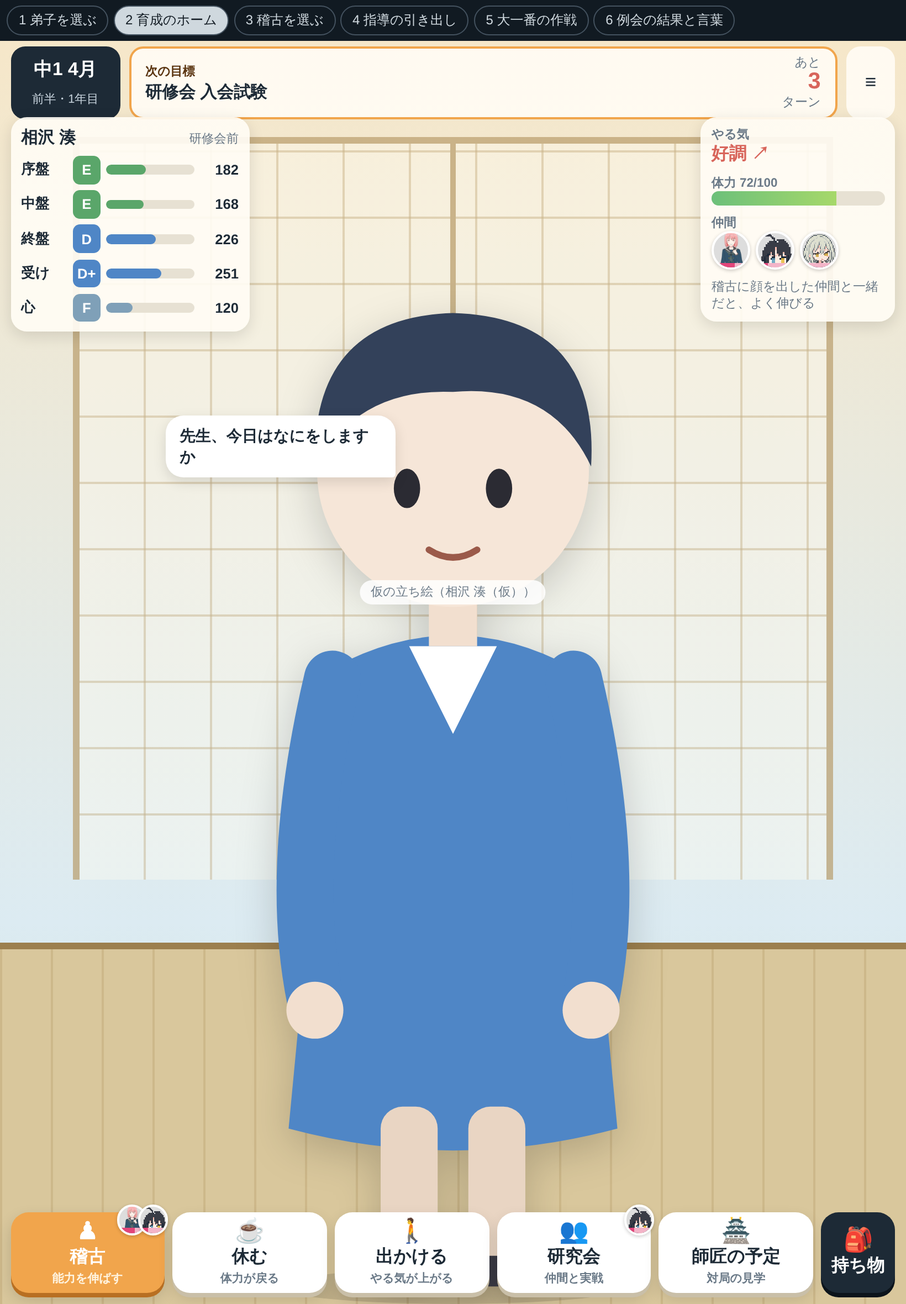
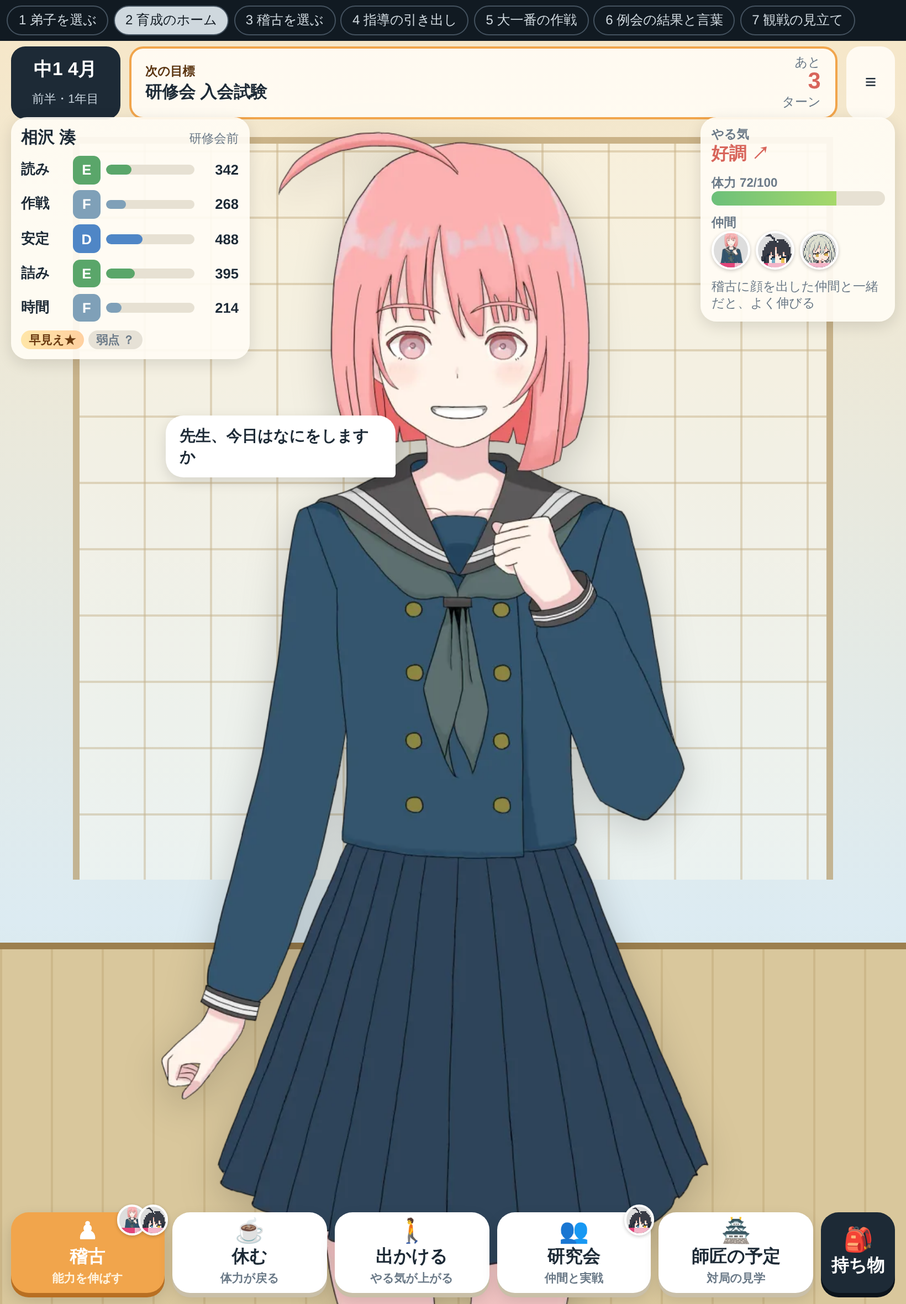
docs: 師匠の1年の能力値・スキル・観戦の見立てを設計し直す。
- 能力値を読み・作戦・安定・詰み・時間の5つにし、それぞれ今のCPUのつまみ(探索量・作戦の選び方と大局観・ぶれと見落とし・詰み・時間の配り方)を別のLvで引く(D:4-8 どれぐらい良いことをした？)
- 個性は作戦熟練度・スキル15(藤井曲線が最強)・隠れた弱点(D:4-7 個性はとがらせる・D:8-1)
- 観戦すると、形勢が落ちた場面の理由を5択で見抜き、狙い目の稽古と弱点の名前が手に入る。見なくても勝ちやすさは同じ(D:3-1・D:6-1)
- 観戦する局はエンジンで本当に指し、しない局は強さの差で決める
- モックアップの立ち絵を百花の立ち絵(仮)にし、観戦の見立ての画面を足した
- 設計は19章

Claude-Session: https://claude.ai/code/session_01CSNAKJWwLor7hKy3TRq9Wu

diff --git a/docs/disciple-mode/mock.html b/docs/disciple-mode/mock.html
@@ -7,7 +7,7 @@
 <!--
   師匠の1年(docs/disciple-mode-design.md)の画面の見本。動く部分は見本のための最小限。
   立ち絵を真ん中に大きく置き、UIはその上に重ねる(育成シミュレーションの型。17章のユーザーの指定)。
-  弟子の絵はまだないので、仮の影絵(SVG)で置いている。
+  弟子の絵はまだないので、百花の立ち絵を仮に使っている(19-9)。
   上の「画面」の帯は見本の切り替えで、本物の画面には出ない。?s=home などで直接開ける。
 -->
 <style>
@@ -41,9 +41,9 @@ button { font: inherit; color: inherit; cursor: pointer; }
 .screen.on { display: block; }
 
 /* ---- 立ち絵(真ん中に大きく) */
-.figure { position: absolute; z-index: 1; left: 50%; bottom: 0; height: min(92%, 62rem); aspect-ratio: 0.46; transform: translateX(-50%); pointer-events: none; }
-.figure svg { width: 100%; height: 100%; display: block; filter: drop-shadow(0 10px 18px rgba(0, 0, 0, 0.18)); }
-.figure .tag { position: absolute; left: 50%; top: 34%; transform: translateX(-50%); padding: 0.2rem 0.6rem; border-radius: 999px; background: rgba(255,255,255,0.85); color: var(--muted); font-size: 0.7rem; white-space: nowrap; }
+.figure { position: absolute; z-index: 1; left: 50%; top: 5%; height: 150%; aspect-ratio: 0.344; transform: translateX(-50%); pointer-events: none; }
+.figure img { width: 100%; height: 100%; display: block; object-fit: contain; object-position: 50% 0; filter: drop-shadow(0 10px 18px rgba(0, 0, 0, 0.18)); }
+.figure .tag { position: absolute; left: 50%; top: 21%; transform: translateX(-50%); padding: 0.2rem 0.6rem; border-radius: 999px; background: rgba(255,255,255,0.85); color: var(--muted); font-size: 0.7rem; white-space: nowrap; }
 .figure.bounce { animation: bounce 0.5s ease; }
 @keyframes bounce { 30% { transform: translateX(-50%) translateY(-10px); } 60% { transform: translateX(-50%) translateY(0); } }
 
@@ -71,6 +71,12 @@ button { font: inherit; color: inherit; cursor: pointer; }
 .stats h3 { margin: 0 0 0.1rem; font-size: 0.72rem; color: var(--muted); }
 .stats .who { display: flex; justify-content: space-between; align-items: baseline; }
 .stats .who b { font-size: 0.95rem; } .stats .who small { color: var(--muted); font-size: 0.7rem; }
+
+/* ---- スキルの札 */
+.skills { display: flex; flex-wrap: wrap; gap: 0.25rem; margin-top: 0.15rem; }
+.skill { padding: 0.08rem 0.45rem; border-radius: 999px; background: linear-gradient(90deg, #ffe6a8, #ffd0a0); color: #6a3a10; font-size: 0.66rem; font-weight: 900; }
+.skill--hidden { background: #e6e1d6; color: var(--muted); }
+.tr .aim { position: absolute; top: 0.3rem; right: 0.4rem; padding: 0 0.35rem; border-radius: 999px; background: #e2457a; color: #fff; font-size: 0.58rem; }
 
 /* ---- 右のやる気・体力 */
 .mood { position: absolute; z-index: 5; right: 0.6rem; top: 4.6rem; width: 11rem; display: grid; gap: 0.5rem; padding: 0.55rem 0.6rem; border-radius: 0.9rem; background: var(--panel); box-shadow: 0 4px 14px rgba(0,0,0,0.12); }
@@ -204,9 +210,41 @@ button { font: inherit; color: inherit; cursor: pointer; }
 .pc b { display: block; font-size: 0.88rem; } .pc small { color: var(--muted); font-size: 0.7rem; }
 .pick-go { position: absolute; z-index: 6; right: 0.6rem; bottom: 0.6rem; min-width: 12rem; min-height: 3.6rem; border: 0; border-radius: 1rem; background: var(--accent); color: #fff; font-size: 1.05rem; font-weight: 900; box-shadow: 0 4px 0 #b86f22; }
 
+/* ---- 観戦の見立て */
+.watch { position: absolute; inset: 0; z-index: 4; display: grid; grid-template-columns: minmax(0, 1fr) 19rem; grid-template-rows: auto minmax(0, 1fr) auto; gap: 0.5rem; padding: 0.6rem; background: rgba(28, 38, 48, 0.94); color: #fff; }
+.watch .head { grid-column: 1 / -1; display: flex; align-items: center; gap: 0.6rem; }
+.watch .head b { font-size: 1rem; } .watch .head small { color: #b8c6d2; }
+.watch .speed { margin-left: auto; display: flex; gap: 0.3rem; }
+.watch .speed button { min-height: 2.4rem; padding: 0 0.7rem; border: 1px solid #50606e; border-radius: 0.6rem; background: transparent; color: #fff; font-weight: 800; }
+.boardbox { display: grid; place-items: center; min-height: 0; }
+.ban { position: relative; height: 100%; max-height: 30rem; aspect-ratio: 1; background: #e3bd74; border: 3px solid #7a5426; display: grid; grid-template-columns: repeat(9, 1fr); grid-template-rows: repeat(9, 1fr); }
+.ban i { border: 1px solid rgba(80, 50, 20, 0.45); display: grid; place-items: center; color: #2a1a0a; font-style: normal; font-weight: 900; font-size: clamp(0.6rem, 2.2vh, 1.1rem); }
+.ban i.ring { box-shadow: inset 0 0 0 3px #e0453a; border-radius: 50%; }
+.ban i.last { background: rgba(90, 166, 106, 0.45); }
+.clock { position: absolute; padding: 0.15rem 0.5rem; border-radius: 0.4rem; background: #1d2a36; color: #fff; font-size: 0.8rem; font-weight: 900; }
+.clock.warn { background: #d8655b; }
+.side { display: grid; align-content: start; gap: 0.5rem; min-height: 0; }
+.ask { padding: 0.6rem; border-radius: 0.9rem; background: var(--paper); color: var(--ink); }
+.ask h3 { margin: 0 0 0.3rem; font-size: 0.95rem; }
+.ask p { margin: 0 0 0.4rem; font-size: 0.76rem; color: var(--muted); }
+.clues { display: flex; flex-wrap: wrap; gap: 0.25rem; margin-bottom: 0.4rem; }
+.clues span { padding: 0.1rem 0.45rem; border-radius: 999px; background: #f0e7d6; font-size: 0.68rem; font-weight: 800; }
+.reasons { display: grid; grid-template-columns: 1fr 1fr; gap: 0.35rem; }
+.reasons button { min-height: 2.8rem; border: 2px solid var(--line); border-radius: 0.7rem; background: #fff; font-weight: 900; font-size: 0.82rem; }
+.reasons button small { display: block; color: var(--muted); font-size: 0.62rem; font-weight: 700; }
+.reasons button.right { border-color: var(--green); background: #e9f6ea; }
+.reasons button:last-child { grid-column: 1 / -1; }
+.found { padding: 0.55rem 0.6rem; border-radius: 0.9rem; background: #fff3e2; color: var(--ink); font-size: 0.8rem; }
+.found b { color: #c0661b; }
+.eye { font-size: 0.72rem; color: #b8c6d2; }
+.graph { grid-column: 1 / -1; position: relative; height: 7.5rem; border-radius: 0.8rem; background: #fff; overflow: hidden; }
+.graph svg { width: 100%; height: 100%; display: block; }
+.mark { position: absolute; top: 0.3rem; transform: translateX(-50%); padding: 0.05rem 0.4rem; border-radius: 999px; background: #e2457a; color: #fff; font-size: 0.66rem; font-weight: 900; }
+.mark.done { background: var(--green); }
+
 /* ---- スマホ縦: 立ち絵は真ん中のまま、UIを上下に寄せる */
 @media (max-width: 640px) {
-  .figure { height: 74%; bottom: 7.2rem; }
+  .figure { top: 9%; height: 118%; }
   .top { top: 0.4rem; left: 0.4rem; right: 0.4rem; }
   .turn { min-width: 4.6rem; } .turn b { font-size: 0.9rem; }
   .goal { padding: 0.3rem 0.5rem; } .goal b { font-size: 0.8rem; } .goal small { font-size: 0.62rem; }
@@ -244,7 +282,15 @@ button { font: inherit; color: inherit; cursor: pointer; }
   .pick-cards { top: 3.6rem; right: 0.4rem; width: 9rem; }
   .pc { grid-template-columns: 1.8rem 1fr; padding: 0.3rem; } .pc .dot { width: 1.8rem; height: 1.8rem; }
   .pick-go { left: 0.4rem; right: 0.4rem; bottom: 0.4rem; min-height: 3.2rem; }
-  .figure.pickfig { bottom: 13rem; height: 62%; }
+  .figure.pickfig { top: 7%; height: 100%; }
+}
+@media (max-width: 640px) {
+  .watch { grid-template-columns: 1fr; grid-template-rows: auto auto auto minmax(0, 1fr); padding: 0.4rem; gap: 0.35rem; overflow-y: auto; }
+  .watch .head small { display: none; }
+  .ban { height: auto; width: 100%; max-height: none; }
+  .graph { grid-column: auto; height: 5.5rem; order: 0; }
+  .side { order: 1; }
+  .watch .speed button { padding: 0 0.5rem; min-height: 2.2rem; }
 }
 @media (max-width: 640px) and (max-height: 760px) { .stats .stat:nth-child(n+7) { display: none; } }
 </style>
@@ -257,6 +303,7 @@ button { font: inherit; color: inherit; cursor: pointer; }
   <button data-go="lesson">4 指導の引き出し</button>
   <button data-go="bigone">5 大一番の作戦</button>
   <button data-go="reikai">6 例会の結果と言葉</button>
+  <button data-go="watch">7 観戦の見立て</button>
 </nav>
 
 <main class="game">
@@ -410,10 +457,43 @@ button { font: inherit; color: inherit; cursor: pointer; }
       </div>
     </div>
   </section>
+
+  <!-- 7 観戦の見立て(19-5) -->
+  <section class="screen" id="watch">
+    <div class="watch">
+      <div class="head"><b>観戦　研修会 入会試験 3局目</b><small>湊（先手）対 天鷺門下の子　78手目</small>
+        <div class="speed"><button>×1</button><button>×4</button><button>次の印へ ▶</button></div></div>
+      <div class="boardbox"><div class="ban" id="ban"></div></div>
+      <div class="side">
+        <div class="ask">
+          <h3>形勢が落ちた。理由は？</h3>
+          <p>78手目の湊の手のあと、評価値が＋210から−640へ。手がかりを見て、足りないものを選ぼう。</p>
+          <div class="clues"><span>78手目（終盤の入口）</span><span>残り時間 4分</span><span>赤い輪：取られる銀</span></div>
+          <div class="reasons">
+            <button>読み負け<small>相手の狙いに遅れた</small></button>
+            <button>作戦負け<small>序盤から不利</small></button>
+            <button class="right">うっかり<small>取られる駒の見落とし</small></button>
+            <button>詰み逃し<small>詰みや詰めろ</small></button>
+            <button>時間切迫<small>秒読みで手が荒れた</small></button>
+          </div>
+        </div>
+        <div class="found">正解！ 銀の当たりを<b>見落とした</b>。<br>「安定」の稽古が<b>狙い目（伸び×1.5・3ターン）</b>になった。<br><small>うっかり 1/3回 …あと2回で弱点の名前が分かる</small></div>
+        <div class="eye">師匠の眼 二段（見抜いた数 7）</div>
+      </div>
+      <div class="graph">
+        <svg viewBox="0 0 400 100" preserveAspectRatio="none" aria-hidden="true">
+          <line x1="0" y1="50" x2="400" y2="50" stroke="#d9d2c4" stroke-width="1"/>
+          <polyline fill="none" stroke="#4f86c6" stroke-width="2.5" points="0,50 30,48 60,44 90,46 120,40 150,36 180,38 205,34 215,70 240,66 270,62 300,58 330,64 345,90 370,92 400,96"/>
+          <circle cx="215" cy="70" r="4" fill="#e2457a"/><circle cx="345" cy="90" r="4" fill="#e2457a"/>
+        </svg>
+        <span class="mark done" style="left:53.7%">78手目 ✓</span><span class="mark" style="left:86%">112手目</span>
+      </div>
+    </div>
+  </section>
 </main>
 
 <script>
-// ---- 仮の立ち絵(影絵)。弟子ごとに色だけ変える。
+// ---- 弟子の候補(名前は仮)。
 const DISCIPLES = [
   { name: '相沢 湊（仮）', age: '中学1年・12歳', color: 'var(--c1)', hair: '#33415a', text: '将棋教室の大会で負けて泣いた日、あなたに「弟子にしてください」と頼みに来た。', good: '受け・粘り', bad: '攻めが遅い・自信がない', diff: '★★☆', limit: 'ゆとりあり' },
   { name: '朝比奈 紬（仮）', age: '高校1年・15歳', color: 'var(--c2)', hair: '#4a3446', text: '将棋を始めたのは中学3年。遅く始めた分、研究ノートは誰よりも厚い。', good: '研究・序盤', bad: '終盤の読み・体力', diff: '★★★', limit: '時間との勝負' },
@@ -421,21 +501,8 @@ const DISCIPLES = [
 ];
 let current = 0;
 function figureSvg(d) {
-  return `<svg viewBox="0 0 230 500" aria-hidden="true">
-    <ellipse cx="115" cy="492" rx="80" ry="8" fill="rgba(0,0,0,.12)"/>
-    <path d="M60 210 Q115 180 170 210 L190 420 Q115 440 40 420 Z" fill="${d.color}"/>
-    <rect x="82" y="410" width="26" height="80" rx="10" fill="#e9d5c3"/><rect x="122" y="410" width="26" height="80" rx="10" fill="#e9d5c3"/>
-    <rect x="78" y="478" width="34" height="14" rx="6" fill="#3a3a44"/><rect x="118" y="478" width="34" height="14" rx="6" fill="#3a3a44"/>
-    <path d="M60 215 Q40 300 52 360" stroke="${d.color}" stroke-width="26" stroke-linecap="round" fill="none"/>
-    <path d="M170 215 Q190 300 178 360" stroke="${d.color}" stroke-width="26" stroke-linecap="round" fill="none"/>
-    <circle cx="52" cy="366" r="13" fill="#f2dfcf"/><circle cx="178" cy="366" r="13" fill="#f2dfcf"/>
-    <path d="M95 200 L115 240 L135 200 Z" fill="#fff"/>
-    <rect x="104" y="170" width="22" height="30" fill="#f2dfcf"/>
-    <circle cx="115" cy="120" r="62" fill="#f6e6d8"/>
-    <path d="M52 118 Q50 50 115 48 Q182 50 178 118 Q160 80 115 84 Q72 82 52 118 Z" fill="${d.hair}"/>
-    <ellipse cx="94" cy="128" rx="6" ry="9" fill="#2b2b33"/><ellipse cx="136" cy="128" rx="6" ry="9" fill="#2b2b33"/>
-    <path d="M104 156 Q115 163 126 156" stroke="#9b5a4a" stroke-width="3" fill="none" stroke-linecap="round"/>
-  </svg><span class="tag">仮の立ち絵（${d.name}）</span>`;
+  // 弟子の絵ができるまで、百花の立ち絵を仮に使う(19-9)。
+  return `<img src="../../public/characters/sakurano-momoka.webp" alt="仮の立ち絵（百花の絵で代用）">`;
 }
 function drawFigures() {
   for (const el of document.querySelectorAll('[data-fig]')) el.innerHTML = figureSvg(DISCIPLES[current]);
@@ -443,15 +510,16 @@ function drawFigures() {
 
 // ---- 能力(5つ)
 const STATS = [
-  { name: '序盤', rank: 'E', value: 182 }, { name: '中盤', rank: 'E', value: 168 }, { name: '終盤', rank: 'D', value: 226 },
-  { name: '受け', rank: 'D+', value: 251 }, { name: '心', rank: 'F', value: 120 },
+  { name: '読み', rank: 'E', value: 342 }, { name: '作戦', rank: 'F', value: 268 }, { name: '安定', rank: 'D', value: 488 },
+  { name: '詰み', rank: 'E', value: 395 }, { name: '時間', rank: 'F', value: 214 },
 ];
+const SKILLS = [{ name: '早見え', star: 1 }, { name: '？？？', star: 0, hidden: true }];
 const TRAINS = [
-  { id: 'tsume', name: '詰将棋', ic: '🧩', lv: 2, fail: 4, cost: 20, gains: [0, 0, 14, 0, 4], friends: ['momoka'] },
-  { id: 'kifu', name: '棋譜並べ', ic: '📜', lv: 1, fail: 4, cost: 15, gains: [11, 4, 0, 0, 0], friends: [] },
-  { id: 'jissen', name: '実戦', ic: '♟', lv: 1, fail: 6, cost: 22, gains: [0, 12, 0, 5, 0], friends: ['pro'] },
-  { id: 'uke', name: '受けの特訓', ic: '🛡', lv: 3, fail: 9, cost: 25, gains: [0, 0, 4, 16, 0], friends: [] },
-  { id: 'shisho', name: '師匠と指す', ic: '🏯', lv: 1, fail: 2, cost: 12, gains: [0, 0, 0, 0, 10], friends: [] },
+  { id: 'tsume', name: '詰将棋', ic: '🧩', lv: 2, fail: 4, cost: 20, gains: [6, 0, 0, 18, 0], friends: ['momoka'] },
+  { id: 'kifu', name: '棋譜並べ', ic: '📜', lv: 1, fail: 4, cost: 15, gains: [0, 16, 5, 0, 0], friends: [], aim: true },
+  { id: 'jissen', name: '実戦', ic: '♟', lv: 1, fail: 6, cost: 22, gains: [15, 0, 6, 0, 0], friends: ['pro'] },
+  { id: 'fast', name: '早指し', ic: '⏱', lv: 3, fail: 9, cost: 25, gains: [5, 0, 0, 0, 17], friends: [] },
+  { id: 'shisho', name: '師匠と指す', ic: '🏯', lv: 1, fail: 2, cost: 12, gains: [0, 0, 14, 0, 0], friends: [] },
 ];
 const FRIENDS = {
   momoka: { img: '../../public/characters/sakurano-momoka-320.webp', heart: 60, px: false },
@@ -461,16 +529,17 @@ const FRIENDS = {
 const friendHtml = (id) => { const f = FRIENDS[id]; return `<span class="friend${f.px ? ' px' : ''}"><img src="${f.img}" alt=""><span class="heart"><i style="width:${f.heart}%"></i></span></span>`; };
 function statsHtml(gains = null) {
   const d = DISCIPLES[current];
+  const skills = `<div class="skills">${SKILLS.map((skill) => `<span class="skill${skill.hidden ? ' skill--hidden' : ''}">${skill.hidden ? '弱点 ？' : `${skill.name}${'★'.repeat(skill.star)}`}</span>`).join('')}</div>`;
   return `<div class="who"><b>${d.name.replace('（仮）', '')}</b><small>研修会前</small></div>` + STATS.map((stat, index) => {
     const rank = stat.rank.replace('+', '');
     const up = gains && gains[index] ? `<span class="up">+${gains[index]}</span>` : `<span></span>`;
-    return `<div class="stat"><span class="name">${stat.name}</span><span class="rank r-${rank}">${stat.rank}</span><span class="bar"><i class="r-${rank}" style="width:${Math.min(100, stat.value / 4)}%"></i></span><span class="num">${gains && gains[index] ? `<span class="up">+${gains[index]}</span>` : stat.value}</span></div>`;
-  }).join('');
+    return `<div class="stat"><span class="name">${stat.name}</span><span class="rank r-${rank}">${stat.rank}</span><span class="bar"><i class="r-${rank}" style="width:${Math.min(100, stat.value / 12)}%"></i></span><span class="num">${gains && gains[index] ? `<span class="up">+${gains[index]}</span>` : stat.value}</span></div>`;
+  }).join('') + skills;
 }
 let pickedTrain = 0;
 function drawTrain() {
   const row = document.getElementById('train-row');
-  row.innerHTML = TRAINS.map((t, index) => `<button class="tr" data-tr="${index}" aria-pressed="${index === pickedTrain}"><span class="lv">Lv${t.lv}</span>${t.friends.length ? `<span class="badge">${t.friends.map(friendHtml).join('')}</span>` : ''}<span style="font-size:1.4rem">${t.ic}</span>${t.name}<span class="fail${t.fail >= 8 ? ' warn' : ''}">失敗 ${t.fail}%</span></button>`).join('') + `<button class="cmd sub" data-go="home">戻る</button>`;
+  row.innerHTML = TRAINS.map((t, index) => `<button class="tr" data-tr="${index}" aria-pressed="${index === pickedTrain}"><span class="lv">Lv${t.lv}</span>${t.aim ? '<span class="aim">狙い目</span>' : ''}${t.friends.length ? `<span class="badge">${t.friends.map(friendHtml).join('')}</span>` : ''}<span style="font-size:1.4rem">${t.ic}</span>${t.name}<span class="fail${t.fail >= 8 ? ' warn' : ''}">失敗 ${t.fail}%</span></button>`).join('') + `<button class="cmd sub" data-go="home">戻る</button>`;
   const t = TRAINS[pickedTrain];
   document.getElementById('tr-name').textContent = t.name + (t.friends.length ? '　仲間と一緒' : '');
   document.getElementById('tr-note').textContent = `体力 −${t.cost}・失敗 ${t.fail}%`;
@@ -501,6 +570,10 @@ document.querySelectorAll('[data-go]').forEach((el) => el.addEventListener('clic
 document.querySelectorAll('[data-choice]').forEach((group) => group.querySelectorAll('.opt').forEach((opt) => opt.addEventListener('click', () => {
   group.querySelectorAll('.opt').forEach((other) => other.setAttribute('aria-pressed', String(other === opt)));
 })));
+(function drawBan() {
+  const pieces = { 0: '香', 1: '桂', 7: '桂', 8: '香', 12: '玉', 13: '金', 21: '歩', 22: '歩', 24: '歩', 40: '角', 47: '銀', 56: '歩', 58: '歩', 60: '歩', 66: '金', 67: '銀', 70: '金', 75: '玉', 79: '香' };
+  document.getElementById('ban').innerHTML = Array.from({ length: 81 }, (_, i) => `<i class="${i === 47 ? 'ring' : i === 40 ? 'last' : ''}">${pieces[i] ?? ''}</i>`).join('') + '<span class="clock warn" style="right:0.3rem;bottom:0.3rem">湊 残り4分</span>';
+})();
 drawFigures(); drawPick(); drawHome(); drawTrain();
 show(new URLSearchParams(location.search).get('s') || 'home');
 </script>

diff --git a/docs/disciple-mode-design.md b/docs/disciple-mode-design.md
@@ -317,5 +317,135 @@
   - 稽古を選ぶと、選んだ札が少し浮き、上に伸びる数字の札、左の能力に＋の数字。仲間の顔は札の右上。
   - カードの稽古は、手札3枚を下に並べ、稽古の出来のメーターは左上（デスクトップ）か手札の上（スマホ）。この子に合うカードに印。右下に「おまかせ」。
   - 大一番は、右上に相手の札（戦闘力）、下に作戦の選びとお守り、「結果だけ見る」と「作戦を授けて観戦する」。
-- 名前（相沢 湊・朝比奈 紬・結城 蒼）と絵は仮。絵は影絵で、決まったら差し替える。
+- 名前（相沢 湊・朝比奈 紬・結城 蒼）と絵は仮。絵は百花の立ち絵で代用し（19-9）、決まったら差し替える。
 - 確かめたこと：3つの大きさで横にはみ出さない（`scrollWidth`）ことと、写真で重なりと切れを見た。
+
+## 19. 能力値・個性・スキルと、観戦する意味（作り直し。2026-11-21）
+
+ユーザーの指定：
+
+- 弟子の仮の立ち絵は百花の立ち絵にする（影絵は奇妙なのでやめる）。
+- 能力値で将棋AIの強さと指し手が変わる。弟子の指し手は「**能力値（探索量・作戦選択・安定性・詰み探索・時間配分）＋個性（作戦熟練度・スキルなど）**」で決まる。
+- 師匠は**観戦して、弟子に足りないものを見抜く**。観戦せずに結果だけ見てもよいが、観戦する意味があるようにする。
+- スキルを15個ほど。例：劣勢のときに強くなる、「藤井曲線」（最強の棋士は悪手を指しにくく、評価値のグラフがきれいな曲線になる。序盤・中盤・終盤に隙がなく、優勢を保つ。いちばん強いスキル）。
+
+この章は9章の「能力は5つ（序盤・中盤・終盤・受け・心）」・9-2の稽古・14章の数字を置き換える。ほかの章はそのまま。
+
+### 19-1. 設計メモ
+
+### 機能名：弟子の能力とスキル、観戦の見立て
+
+- 一言で：弟子の能力値とスキルが、そのまま将棋AIのつまみになる。師匠は観戦で崩れた手の理由を見抜き、次の稽古を決める。
+- 解く課題：(1) 数字が上がっても指し手が変わらないと、育てた手応えがない（D:4-8 どれぐらい良いことをした？）。(2) 観戦が「待つだけ」になる（D:3-1）。(3) 将棋の力がなくても、弟子の弱点を見抜く遊びにする（D:2-4）。
+- リスクとリターン：観戦は時間がかかるが、見抜いた弱点の稽古は伸びが大きい。見ないで進めると速いが、弱点は「？」のまま。
+- 溜めと解放：評価値のグラフが落ちた場面で止めて理由を当てる→当たると弱点が見え、次の稽古の札に「狙い目」が付く。スキルが発動した手に帯が出る。
+- 初めての人の最初の1分：最初の大一番の観戦で、やこび姫が「グラフが落ちたね。止めて、理由を見てみよう」と1回だけ案内する（D:6-2 自然なチュートリアル）。
+- 上級者の深さ：5つの能力の配分、作戦熟練度で持ち戦法を育てる、スキルの組み合わせ（逆境の粘り＋勝負術など）。藤井曲線をめざす。
+- 失敗したとき：理由を外しても、半分の効き目と正しい理由が出る（責めない。D:7-2）。
+- ご褒美と使い道：見抜いた弱点（狙い目の稽古）・スキルのきっかけ・師匠の眼の段。
+- ほめる瞬間：理由を当てた（「さすが先生、読み負けでした」）、スキルの初めての発動、藤井曲線を身につけた日。
+- 捨てるもの：能力値を手で配る仕組み（稽古で育てる）。観戦しないと勝てない作り（見なくても勝ち負けは同じ。違うのは育て方の質だけ）。
+- 確かめ方：観戦した人としない人で、四段までのターン数がどれだけ違うかを自己対局のまねで測り、「見る意味があるが、見ないと詰む」ほどにはしない（差の目安は1〜2割）。
+
+### 19-2. 能力値（5つ）と、AIのつまみ
+
+能力値は**0〜1200**（ランクはG・F・E・D・C・B・A・S・SS）。数字ごとに「その能力が何Lv相当か」を決め、5つの能力をそれぞれ別のつまみに当てる。今のCPUの表（`strength-settings.mjs`のLvと、人間らしい選び方の表`human-model.mjs`の`HUMAN_TABLE`）の列を、能力ごとに別のLvで引く形にする。
+
+| 能力（画面の名前） | 中身 | AIのつまみ（今の部品） | 弱いと起きること（観戦で見える） |
+| --- | --- | --- | --- |
+| 読み（探索量） | どれだけ先まで、どれだけ多くの手を読むか | 探索の量`nodes`、候補数`k`、見えている取り合いの手数`belief.depth` | 読み負け：相手の狙いに数手遅れて気づく |
+| 作戦（作戦選択） | 局面の方針と、相手に合う戦法・囲いを選ぶ力 | 序盤の戦法・囲いの選び方（相手の構えへの合わせ方）、大局観の重み`belief.w`、序盤のぶれ`OPENING_SIGMA_SCALE` | 作戦負け：序盤から少しずつ不利になる |
+| 安定（安定性） | 迷わない・うっかりしない | 判断のぶれ`sigma`、見落とし率`miss`、指す前の確認`prevent`、1局の台無しの上限`limit` | うっかり：取られる駒・両取りの見落とし |
+| 詰み（詰み探索） | 詰みを見つける、詰めろに気づく | 自分の詰みを見つける`mateFinding`、相手の詰めろに気づく手数`belief.mateSight` | 詰み逃し・頓死 |
+| 時間（時間配分） | 持ち時間を勝負どころに使う | 考える時間の配り方（`time-control.mjs`の`cpuThinkPlan`の配分と長考）、秒読みのときの崩れ（`clockEffect`の弱まり） | 時間切迫：終盤の秒読みで手が荒れる |
+
+- 数字からLvへの換算（初期値）：能力0＝Lv12、600＝Lv30、1200＝Lv49（間は直線）。研修会の入門のころは300〜400、四段はどれも900前後が目安。
+- 5つが同じ数字なら、今の同じLvのCPUと同じ強さになる（1つのLvを5つに分けただけなので、強さの物差しが今の表とそろう）。かたよった弟子（読みだけ高いなど）の強さは、自己対局で測って表にする（段階1で測る）。
+- 「心」（やる気）と体力は能力値ではなく、育成のパラメーター（やる気は対局の日に、5つの能力のLvを一律に±1〜2する）。
+
+### 19-3. 個性（作戦熟練度・スキル・弱点）
+
+**作戦熟練度**：戦法・囲いごとに0〜5（★）。
+
+- 上がる：その戦法・囲いを対局で使う、稽古の「棋譜並べ」でその戦法を選ぶ。
+- 効き目：定跡を指す手数が伸び（★1つで＋4手）、その戦法を使う局面のぶれが小さくなる（★5で序盤のぶれ半分）。作戦の能力が同じでも、熟練した戦法を持つほど序盤で得をする。
+- 弟子の得意戦法は熟練度の上位から決まり、大一番の作戦（「弟子の得意で行く」）の中身になる。相手の札には相手の得意戦法が出る。
+
+**スキル**：15個（下の表）。はじめは弟子ごとに1つ、育成で4〜6個まで。
+
+**弱点**：はじめは弟子ごとに1〜2個、**隠れている**（「？」）。観戦で見抜くと名前が出て、克服の稽古（狙い目）が開く。克服すると消える。弱点は今の棋士の特徴（`player-character.mjs`の弱点：うっかり・終盤の頓死・優勢で緩む・時間に追われる・大舞台で硬くなる・受けが苦手）を使う。
+
+### 19-4. スキル15
+
+★は格（★3は金のスキル、★4は虹のスキル。手に入れにくい）。効き目はAIのつまみで書く（数字は初期値）。
+
+| # | スキル | ★ | いつ効くか | AIへの効き目 | 手に入れ方の例 |
+| --- | --- | --- | --- | --- | --- |
+| 1 | **藤井曲線** | ★4 | いつも | 序盤・中盤・終盤のすべてで判断のぶれ×0.4、見落としなし、台無しの上限0。優勢のときは差を広げる手を選び、緩まない。評価値のグラフがなめらかな右肩上がりになる | 5つの能力がすべてA以上、安定がS、大一番で「逆転負けゼロ」を10局 |
+| 2 | 逆境の粘り | ★2 | 評価値−300より不利 | 探索量×1.5、ぶれ×0.7、投了が遅くなる | 劣勢から勝つ、または粘って長手数の局を観戦する |
+| 3 | 勝負術 | ★3 | 評価値−600より不利 | 最善に近い手の中から、相手が間違えやすい複雑な手を選ぶ（相手の候補が割れる手） | 逆境の粘りを持ち、大逆転勝ちを観戦する |
+| 4 | 勝ちきる力 | ★2 | 評価値＋500より有利 | ぶれ×0.5、「優勢で緩む」を打ち消す | 優勢を保って勝つ局を5局 |
+| 5 | 研究家 | ★2 | 序盤 | 定跡の手数＋10手、序盤のぶれ0 | 序盤研究の稽古を10回 |
+| 6 | 終盤の鬼 | ★3 | 終盤 | 詰みを見つける手数＋4、詰めろに気づく手数＋3 | 詰将棋の稽古の段を5に |
+| 7 | 受けの達人 | ★3 | 自玉が危ないとき | 探索量×1.5、詰めろの見落としなし | 受け切って勝つ局を観戦する |
+| 8 | 千里眼 | ★2 | いつも | 見落とし率×0.5（遠くの角・飛車の利き） | 「うっかり」の弱点を克服する |
+| 9 | 妙手 | ★2 | 中盤・終盤 | 捨て駒・見えにくい手を候補に入れやすい（今の`insight`） | 手筋の名前が出る手を観戦で3回見る |
+| 10 | 早見え | ★1 | いつも | 探索量が少なくても、最善の候補を落とさない（候補数の下限を上げる） | はじめから持つ弟子もいる |
+| 11 | 秒読みに強い | ★1 | 秒読み・残り時間が少ないとき | 時計の重圧（`clockEffect`）を半分に | 早指しの稽古を10回 |
+| 12 | 長考派 | ★1 | 中盤の互角の勝負どころ | 考える時間×1.6、その手の探索量×1.6。ただし終盤の持ち時間が減る | 時間の能力がC以上で、長考した手で形勢を取った局を観戦する |
+| 13 | 大舞台 | ★2 | 大一番 | 5つの能力のLvを＋1 | 大一番で3連勝 |
+| 14 | 対策の鬼 | ★2 | 相手の得意戦法が分かっているとき | 作戦の選び方で、相手の得意を外す手を選びやすく、外したときの序盤の得が増える | 大一番の作戦「相手の得意を外す」で3勝 |
+| 15 | 不屈 | ★1 | 育成（盤の外） | 大一番で負けた次の対局で、やる気が下がらない | スランプの場面を乗り越える |
+
+- 藤井曲線が最強なのは、ほかのスキルが「ある場面で強くなる」のに対し、「どの場面でも崩れない」から（ユーザーの指定）。グラフの形で見て分かる（観戦の楽しみにする。D:5-5 スコアの見せ方）。
+- スキルが効いた手は、中継で帯を出す（「逆境の粘り」）。帯はその局で1スキル1回まで。
+- 名前の「藤井曲線」は、実在の棋士の名前を含むファンの言い方。画面でそのまま使うかは、段階1の前にユーザーに確かめる（ほかの名前の案：「完璧な曲線」「隙なし」）。
+
+### 19-5. 観戦する意味（見立て）
+
+観戦しないで結果だけ見ると、勝ち負けと1行（「終盤で崩れた」）だけ。観戦すると次の3つが手に入る。
+
+1. **崩れた手の理由を見抜く**（いちばん大事）
+   - 観戦の画面の下に評価値のグラフ。弟子の手で形勢が大きく落ちた場面（落ちた幅の上位2つまで）に印が付く。
+   - 印の場面で止めると、「理由は？」と5つから選ぶ：**読み負け・作戦負け・うっかり・詰み逃し・時間切迫**。手がかりは画面にある（時計の残り、何手目か、取られた駒の赤い輪、「詰みがありました」の札）。将棋の力がなくても、手がかりで当てられる。
+   - 理由は、弟子の手を選んだときの記録から決まる（AIは、何に気づかなかったか（今の`oversights`）、詰みを読み逃したか、秒読みだったか、序盤の不利かを持っている）。当てると「狙い目」：その能力の稽古の伸び×1.5（3ターン）。外しても正しい理由が出て、狙い目は×1.25。
+   - 同じ理由を3回見抜くと、隠れていた弱点の名前が出る（「うっかりがやや多い」）。弱点の名前が出ると、克服の稽古が開く。
+2. **スキルのきっかけ**：スキルの手に入れ方（19-4）の「観戦する」ものは、観戦したときだけ数える。
+3. **師匠の眼**：見抜いた数で段が上がる（初段〜九段）。段が上がると、印の場面が増え、手がかりが増え、狙い目が長くなる（観戦が上手になる手応え。D:6-1 上達そのものが楽しさになる）。
+
+見る長さの工夫（D:9-1）：
+
+- 観戦は早送り（×2・×4）と「次の印へ」がある。印の場面だけ見れば1局1分ほど。
+- 例会のふつうの局は、観戦しなければすぐ結果（19-6）。観戦するかは対局の前に選ぶ。大一番は観戦をすすめるが、結果だけも選べる。
+
+### 19-6. 対局の決め方（エンジンで指す局と、指さない局）
+
+- **観戦する局**：弟子と相手の両方を、能力から作った設定のCPUがエンジンで本当に指す（`engine-game.mjs`の本局の仕組み）。勝ち負けは盤の上で決まる。崩れた理由の記録はこの局から取る。
+- **観戦しない局**：エンジンで指さず、能力から出した強さ（レーティング）と相手の強さの差で勝ち負けを決める（棋士の1年の分身の勝率`proAutoChance`の考え方）。崩れた理由は「？」のまま。
+- 2つの決め方の勝つ割合がそろうよう、能力からレーティングへの換算を自己対局で測る（段階1）。見ても見なくても勝ちやすさは同じ。違うのは、見抜いた弱点で次の育て方が良くなること。
+- 18章までの「筋書きの線に沿って指す」形はやめる（能力で指し手が変わることを、そのまま見せるため）。
+
+### 19-7. 稽古（5種）と能力の伸び
+
+| 稽古 | 主に伸びる | すこし伸びる | ほか |
+| --- | --- | --- | --- |
+| 詰将棋 | 詰み | 読み | 段が上がると「終盤の鬼」のきっかけ |
+| 棋譜並べ | 作戦 | 安定 | 戦法を1つ選び、その熟練度も上がる |
+| 実戦（練習将棋） | 読み | 安定 | 研究会の仲間がいると伸びが増える |
+| 早指し | 時間 | 読み | 「秒読みに強い」のきっかけ |
+| 師匠と指す | 安定 | 好きな能力1つ | 指さない人は「おまかせ」 |
+
+- 伸びの初期値：主に＋12〜20、すこし＋4〜8（やる気で×0.8〜×1.2、狙い目で×1.25〜×1.5、仲間で＋α）。
+- 能力のランクの境目：G 0／F 150／E 300／D 450／C 600／B 750／A 900／S 1050／SS 1150。
+
+### 19-8. 作る順番の見直し（16章の段階1に足すもの）
+
+- 段階1：能力→AIのつまみの換算（`src/core/disciple-strength.mjs`。今の表を能力ごとのLvで引く）と、そのテスト・自己対局での測定。観戦の局と観戦しない局の決め方。見立て（理由の5択と狙い目）。スキルは5つ（藤井曲線・逆境の粘り・勝ちきる力・終盤の鬼・秒読みに強い）から。
+- 段階2：残りのスキル10・作戦熟練度・弱点と克服・師匠の眼。
+- 段階3以降は16章のまま。
+
+### 19-9. モックアップの直し
+
+- 立ち絵を百花の立ち絵（`public/characters/sakurano-momoka.webp`）に替えた（仮）。
+- 能力の札を5つの能力（読み・作戦・安定・詰み・時間）にし、スキルの札を足した。
+- 画面7「観戦の見立て」を足した（評価値のグラフと印・理由の5択・狙い目）。
